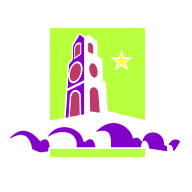
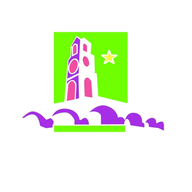
Add files via upload

diff --git a/index.html b/index.html
@@ -10,7 +10,8 @@
   <meta property="og:description" content="Todos los eventos, actividades y citas culturales de El Viso de los Pedroches." />
   <title>Agenda de El Viso</title>
   <link rel="manifest" href="manifest.json" />
-  <link rel="apple-touch-icon" href="icon-512.png" />
+  <link rel="icon" type="image/png" href="icon-192.png" />
+  <link rel="apple-touch-icon" href="apple-touch-icon.png" />
   <link rel="preload" as="image" href="cabecera.jpg" />
   <link rel="preconnect" href="https://fonts.googleapis.com" />
   <link rel="preconnect" href="https://fonts.gstatic.com" crossorigin />

diff --git a/sw.js b/sw.js
@@ -1,4 +1,4 @@
-const CACHE_NAME = 'agenda-el-viso-v4';
+const CACHE_NAME = 'agenda-el-viso-v5';
 const CORE_ASSETS = [
   './',
   './index.html',
@@ -6,7 +6,10 @@ const CORE_ASSETS = [
   './cabecera.jpg',
   './logo.jpg',
   './icon-192.png',
-  './icon-512.png'
+  './icon-512.png',
+  './icon-maskable-192.png',
+  './icon-maskable-512.png',
+  './apple-touch-icon.png'
 ];
 
 self.addEventListener('install', (event) => {

diff --git a/README.md b/README.md
@@ -7,13 +7,15 @@ Aplicación web progresiva (PWA) estática en HTML, CSS y JavaScript puro, pensa
 | Archivo | Para qué sirve |
 |---|---|
 | `index.html` | La aplicación completa: diseño, lectura del Excel, avisos, calendario y compartir. |
-| `sw.js` | Service Worker (caché `agenda-el-viso-v4`). Red primero para la página, caché si no hay conexión. |
+| `sw.js` | Service Worker (caché `agenda-el-viso-v5`). Red primero para la página, caché si no hay conexión. |
 | `manifest.json` | Permite instalar la agenda como app en el móvil. |
-| `icon-192.png`, `icon-512.png` | Iconos de la app instalada. |
+| `icon-192.png`, `icon-512.png` | Iconos redondos con fondo transparente (uso normal: ordenador, accesos directos). |
+| `icon-maskable-192.png`, `icon-maskable-512.png` | Iconos cuadrados a sangre con fondo blanco y el escudo centrado (zona segura del 80 %). Android los recorta en círculo; son los que se ven en el móvil. **No deben tener fondo transparente.** |
+| `apple-touch-icon.png` | Icono para «Añadir a pantalla de inicio» en iPhone (fondo opaco). |
 | `cabecera.jpg`, `logo.jpg` | Foto de cabecera y escudo. |
 | `.nojekyll` | Hace que GitHub Pages sirva los archivos tal cual, sin Jekyll. |
 
-> Cuando cambies `index.html` u otros archivos, sube también `sw.js` con el número de versión de la caché aumentado (`v4` → `v5`) para que los móviles reciban el cambio al instante.
+> Cuando cambies `index.html` u otros archivos, sube también `sw.js` con el número de versión de la caché aumentado (`v5` → `v6`) para que los móviles reciban el cambio al instante.
 
 ## Funciones
 
